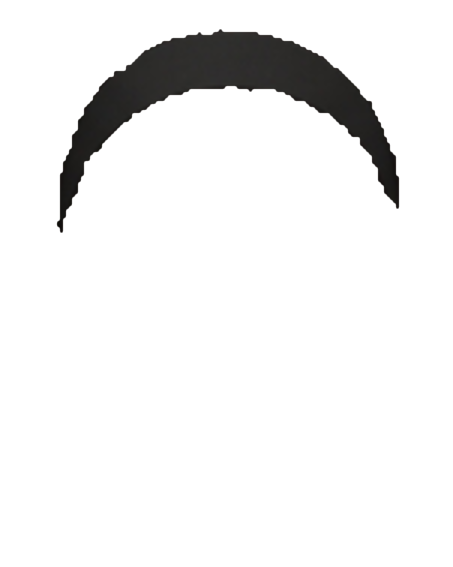
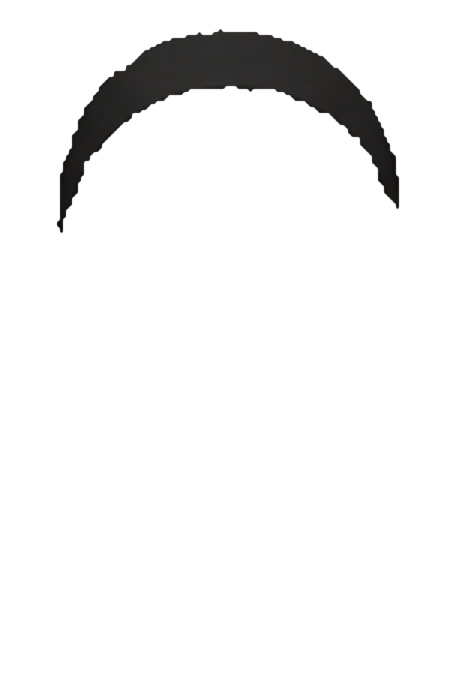
Avec serre-tête : bandeau remis à sa place (image de l'accessoire allongée comme la coiffure), devant de la tête comme avant (v147)
Claude-Session: https://claude.ai/code/session_01RffJDTtPaeahFdiXkdY2ya

Changed region(s): [[0.1236, 0.03, 0.8962, 0.4198]]

diff --git a/tools/allonger-coiffure.py b/tools/allonger-coiffure.py
@@ -32,7 +32,7 @@ dos = clip(dos); fr = clip(fr)
 for y in range(H - 70, H + E): fr[y, :, 3] *= np.clip((H - 10 - y) / 60, 0, 1)
 Image.fromarray(dos.clip(0, 255).astype(np.uint8)).save(D + name + '-dos.png', optimize=True)
 Image.fromarray(fr.clip(0, 255).astype(np.uint8)).save(D + name + '.png', optimize=True)
-for p in ('-peau', '-dos-peau'):
+for p in ('-peau', '-dos-peau', '-acc'):   # -acc : accessoire (serre-tête, barrette) posé au même endroit
     try:
         a = load(name + p); Image.fromarray(np.concatenate([a, np.zeros((E, W, 4))], 0).astype(np.uint8)).save(D + name + p + '.png', optimize=True)
     except FileNotFoundError: pass

diff --git a/tools/bord-droit.py b/tools/bord-droit.py
@@ -41,7 +41,7 @@ def fix(d, ya, yb):
 
 F = fix(F, y0, yf); D = fix(D, y0, H)
 Image.fromarray(F.astype(np.uint8)).save(P(hid)); Image.fromarray(D.astype(np.uint8)).save(P(hid + '-dos'))
-for s in ('-peau', '-dos-peau'):
+for s in ('-peau', '-dos-peau', '-acc'):
     if M and os.path.exists(P(hid + s)):
         q = np.array(Image.open(P(hid + s)).convert('RGBA')); Image.fromarray(np.pad(q, ((0, 0), (M, M), (0, 0)))).save(P(hid + s))
 if M:
